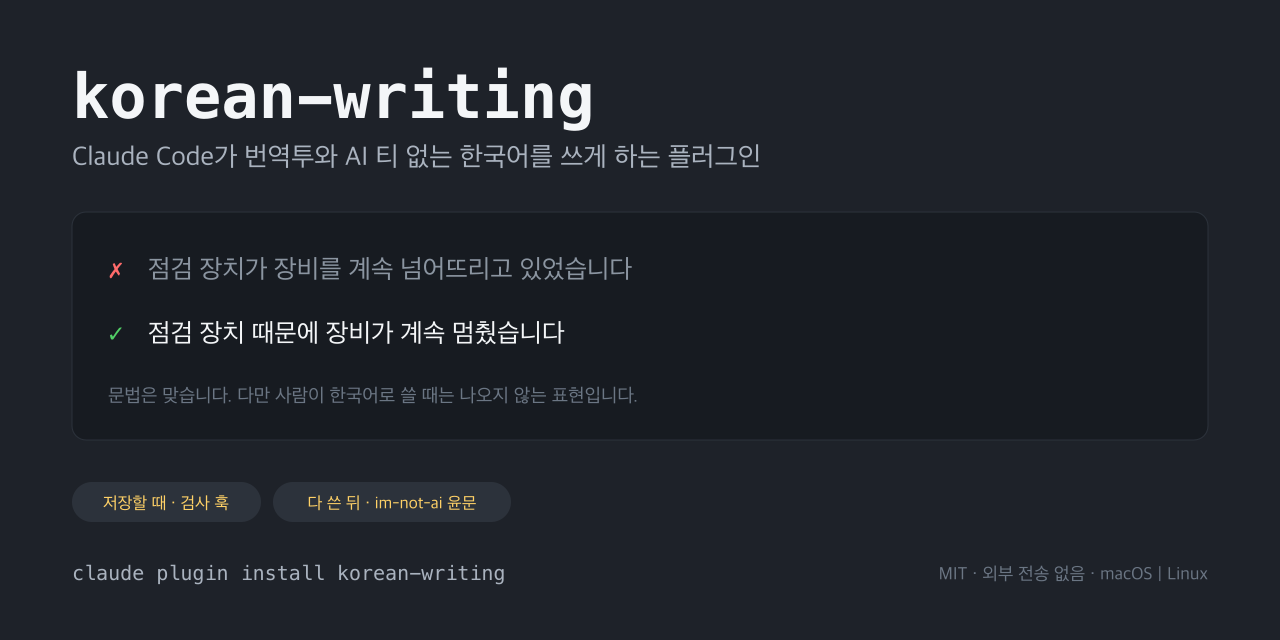
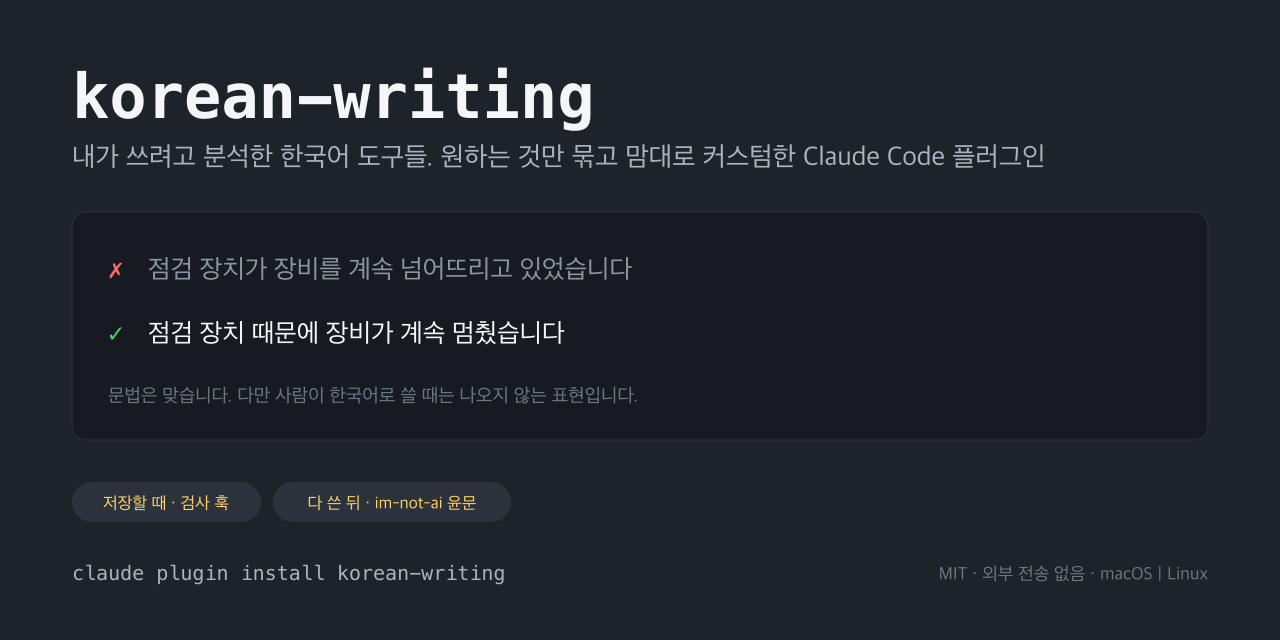
docs: 소개 문구를 새 컨셉으로 바꿈
GitHub 소개가 「내가 쓰려고 분석한 한국어 도구들. 원하는 것만 묶고 맘대로 커스텀한 Claude Code 플러그인」인데 매니페스트와 그림은 옛 문구를 쓰고 있었다.

바꾼 곳: plugin.json·marketplace.json 의 설명, tools/render-hero.py 로 다시 그린 맨 위 그림, 소셜 카드 SVG 와 PNG.
render-hero.py 에서 영어 그림을 그리던 부분도 함께 뺐다. 다시 그린 그림을 PNG 로 변환해 제목과 문구가 겹치지 않는 것을 확인했다.

Changed region(s): [[0.0625, 0.2188, 0.8125, 0.2812]]

diff --git a/tools/render-hero.py b/tools/render-hero.py
@@ -1,5 +1,5 @@
 #!/usr/bin/env python3
-"""README 맨 위 그림(docs/assets/hero*.svg)을 그린다. 한국어·영어 두 판을 어두운 테마와 밝은 테마로 하나씩 만든다.
+"""README 맨 위 그림(docs/assets/hero*.svg)을 그린다. 어두운 테마와 밝은 테마로 하나씩 만든다.
 
 왼쪽 문장은 정답 데이터(tests/ground-truth.json)에서 한 문장씩 그대로 뽑았다. Claude Code 가 실제로 썼던 문장이다.
 오른쪽은 규칙대로 고친 문장이다. 앞의 셋은 README 「문장, 전과 후」 표, K3 은 검사 훅 안내의 예시와 같고
@@ -16,26 +16,19 @@ from xml.sax.saxutils import escape
 REPO = pathlib.Path(__file__).resolve().parent.parent
 GT = {it["id"]: it["text"] for it in json.loads((REPO / "tests" / "ground-truth.json").read_text(encoding="utf-8"))}
 
-# (정답 데이터 id, 규칙 코드, 한국어 이름, 영어 이름, 고치기 전, 고친 뒤)
+# (정답 데이터 id, 규칙 코드, 규칙 이름, 고치기 전, 고친 뒤)
 ROWS = [
-    ("G06", "K6", "승패 의인화", "win/lose metaphor", "규칙이 충돌하면 상위 문서가 이깁니다", "규칙이 충돌하면 상위 문서를 따릅니다"),
-    ("G02", "K7", "사물 의인화", "objects acting", "시험용 장비가 몇 초 만에 쓰러졌습니다", "시험용 장비가 몇 초 만에 멈췄습니다"),
-    ("G05", "K2", "추상 구조어", "structure metaphors", "두 문제는 결이 다르고 레이어도 다릅니다", "두 문제는 성격이 다른 별개의 문제입니다"),
-    ("G04", "K3", "것 구문", "'geot' clauses", "바로 탈이 날 것들이었습니다", "바로 탈이 날 문제였습니다"),
-    ("G10", "K8", "번역투", "translationese", "로그를 가지고 있지 않아", "로그가 없어"),
+    ("G06", "K6", "승패 의인화", "규칙이 충돌하면 상위 문서가 이깁니다", "규칙이 충돌하면 상위 문서를 따릅니다"),
+    ("G02", "K7", "사물 의인화", "시험용 장비가 몇 초 만에 쓰러졌습니다", "시험용 장비가 몇 초 만에 멈췄습니다"),
+    ("G05", "K2", "추상 구조어", "두 문제는 결이 다르고 레이어도 다릅니다", "두 문제는 성격이 다른 별개의 문제입니다"),
+    ("G04", "K3", "것 구문", "바로 탈이 날 것들이었습니다", "바로 탈이 날 문제였습니다"),
+    ("G10", "K8", "번역투", "로그를 가지고 있지 않아", "로그가 없어"),
 ]
-TEXT = {
-    "ko": {"tag1": "Claude Code 플러그인", "tag2": "번역투와 AI 티 없는 한국어로 쓰게 합니다",
-           "left": "Claude Code가 실제로 쓴 문장", "right": "규칙대로 고친 문장",
-           "kcap": "K = 저장할 때 검사",
-           "stages": [("저장할 때", "검사 훅이 걸린 줄을 짚어 줌"), ("수정할 때", "im-not-ai로 윤문")],
-           "foot": "네트워크를 쓰지 않습니다 · MIT"},
-    "en": {"tag1": "A Claude Code plugin", "tag2": "Korean without translationese or AI tells",
-           "left": "Written by Claude Code", "right": "Fixed by the rules",
-           "kcap": "K = on-save check",
-           "stages": [("On save", "the hook points at flagged lines"), ("When revised", "im-not-ai polishing")],
-           "foot": "No network · MIT"},
-}
+TEXT = {"tag1": "원하는 것만 묶고 맘대로 커스텀한 Claude Code 플러그인", "tag2": "내가 쓰려고 분석한 한국어 도구들",
+        "left": "Claude Code가 실제로 쓴 문장", "right": "규칙대로 고친 문장",
+        "kcap": "K = 저장할 때 검사",
+        "stages": [("저장할 때", "검사 훅이 걸린 줄을 짚어 줌"), ("수정할 때", "im-not-ai로 윤문")],
+        "foot": "네트워크를 쓰지 않습니다 · MIT"}
 THEME = {
     "dark": {"bg": "#1e2229", "text": "#e6eaf0", "dim": "#9aa4b2", "before": "#ff8fa3", "after": "#7ee0a3",
              "chip": "#2d333d", "chipt": "#ffd166", "rule": "#39404b", "stage": "#262b33"},
@@ -66,8 +59,8 @@ def t(x, y, s, size, fill, weight=400, family=SANS, anchor="start"):
             f'fill="{fill}" text-anchor="{anchor}">{escape(s)}</text>')
 
 
-def render(lang, theme):
-    c, tx = THEME[theme], TEXT[lang]
+def render(theme):
+    c, tx = THEME[theme], TEXT
     o = [f'<svg xmlns="http://www.w3.org/2000/svg" width="{W}" height="{H}" viewBox="0 0 {W} {H}">',
          f'<rect width="{W}" height="{H}" rx="16" fill="{c["bg"]}"/>',
          t(M, 112, "korean-writing", 56, c["text"], 700, MONO),
@@ -78,8 +71,8 @@ def render(lang, theme):
          t(X_BEFORE, 186, tx["left"], 15, c["before"], 700),
          t(X_AFTER, 186, tx["right"], 15, c["after"], 700)]
     y = 238
-    for _gid, code, ko, en, before, after in ROWS:
-        label = f"{code} {ko if lang == 'ko' else en}"
+    for _gid, code, name, before, after in ROWS:
+        label = f"{code} {name}"
         o.append(f'<rect x="{M}" y="{y - 22}" width="{X_BEFORE - M - 20}" height="32" rx="16" fill="{c["chip"]}"/>')
         o.append(t(M + 16, y, label, 15, c["chipt"], 700))
         o.append(t(X_BEFORE, y, before, 21, c["before"]))
@@ -102,11 +95,10 @@ def render(lang, theme):
 
 def main():
     check_fit()
-    for lang in ("ko", "en"):
-        for theme in ("dark", "light"):
-            name = "hero" + ("-light" if theme == "light" else "") + (".en" if lang == "en" else "") + ".svg"
-            (REPO / "docs" / "assets" / name).write_text(render(lang, theme), encoding="utf-8")
-            print("그렸다:", "docs/assets/" + name)
+    for theme in ("dark", "light"):
+        name = "hero" + ("-light" if theme == "light" else "") + ".svg"
+        (REPO / "docs" / "assets" / name).write_text(render(theme), encoding="utf-8")
+        print("그렸다:", "docs/assets/" + name)
 
 
 if __name__ == "__main__":
